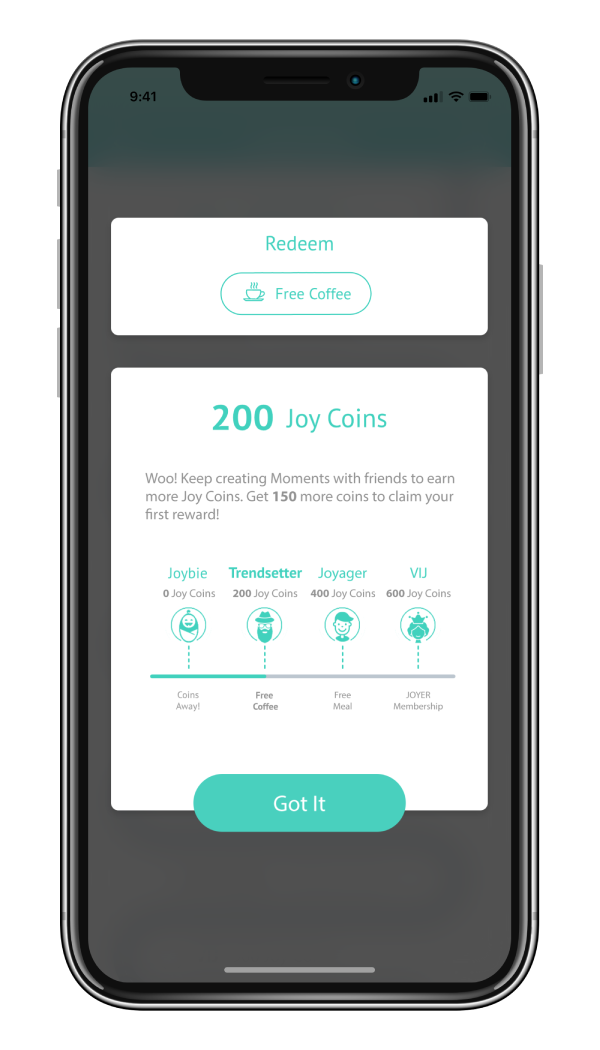
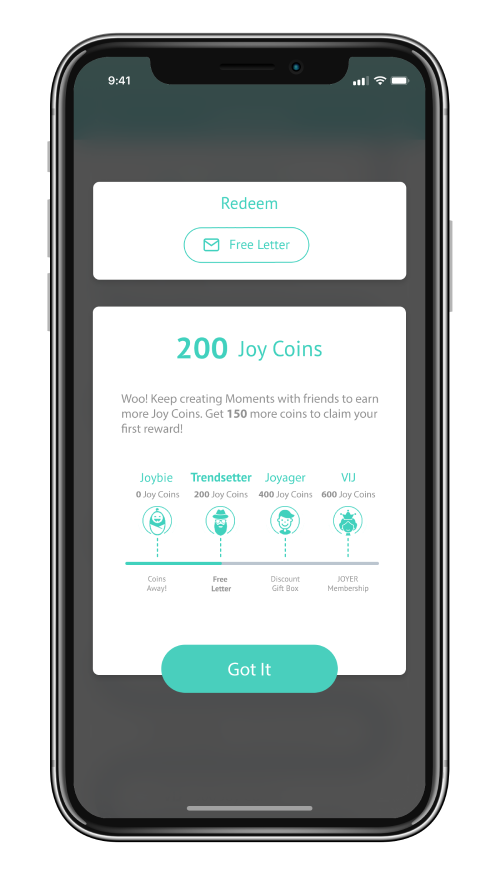
Replace iphone pngs with new versions

diff --git a/src/components/Home/CoreFeature.js b/src/components/Home/CoreFeature.js
@@ -72,8 +72,8 @@ const useStyles = makeStyles({
         },
     },
     iPhone: {
-        width: '540px',
-        height: '600px',
+        width: '400px',
+        height: '700px',
         objectFit: 'contain',
         [theme.breakpoints.down('md')]: {
             width: '600px',
